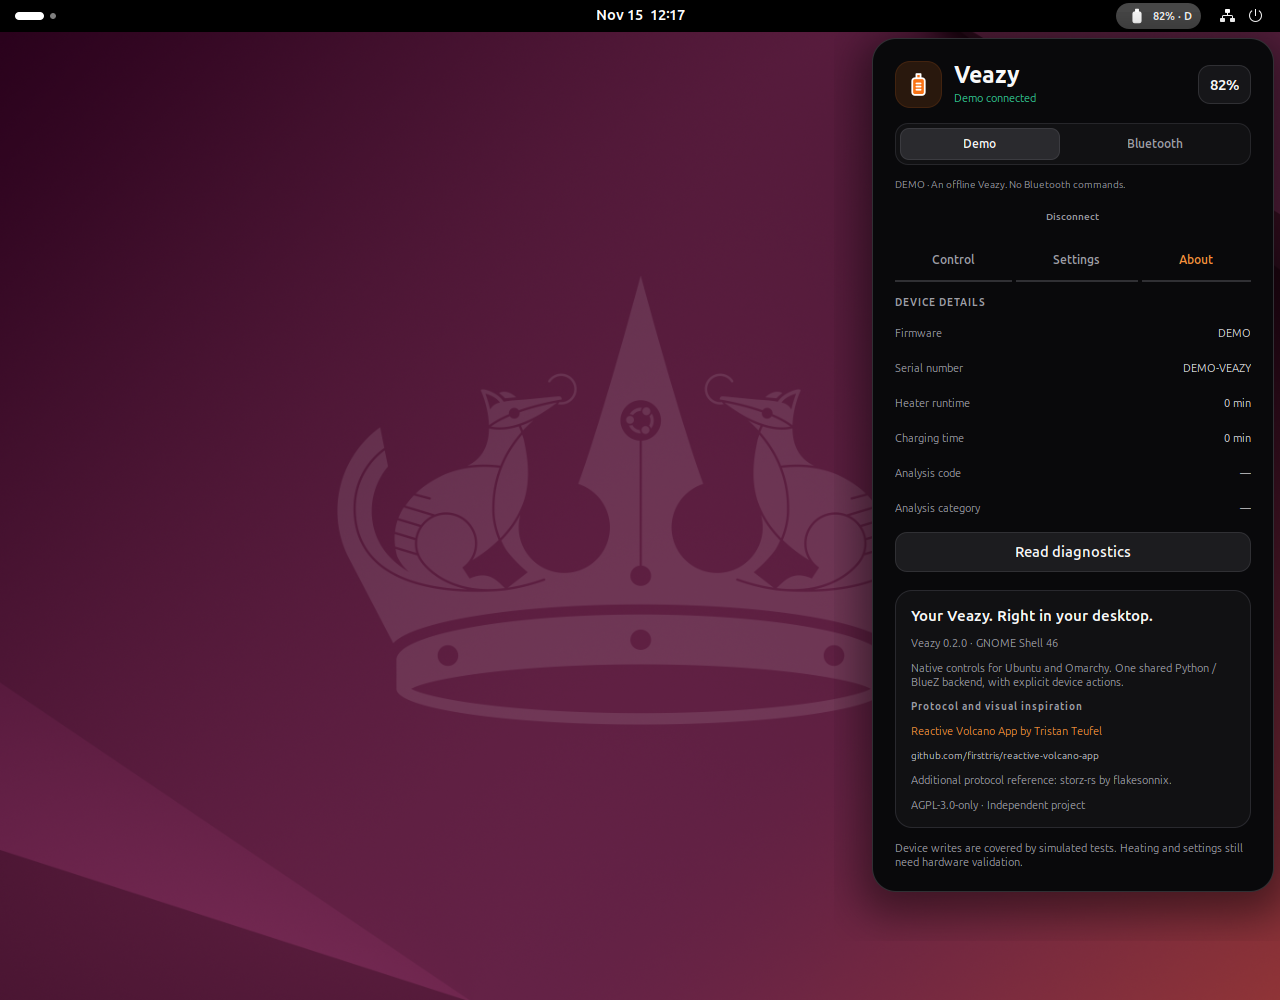
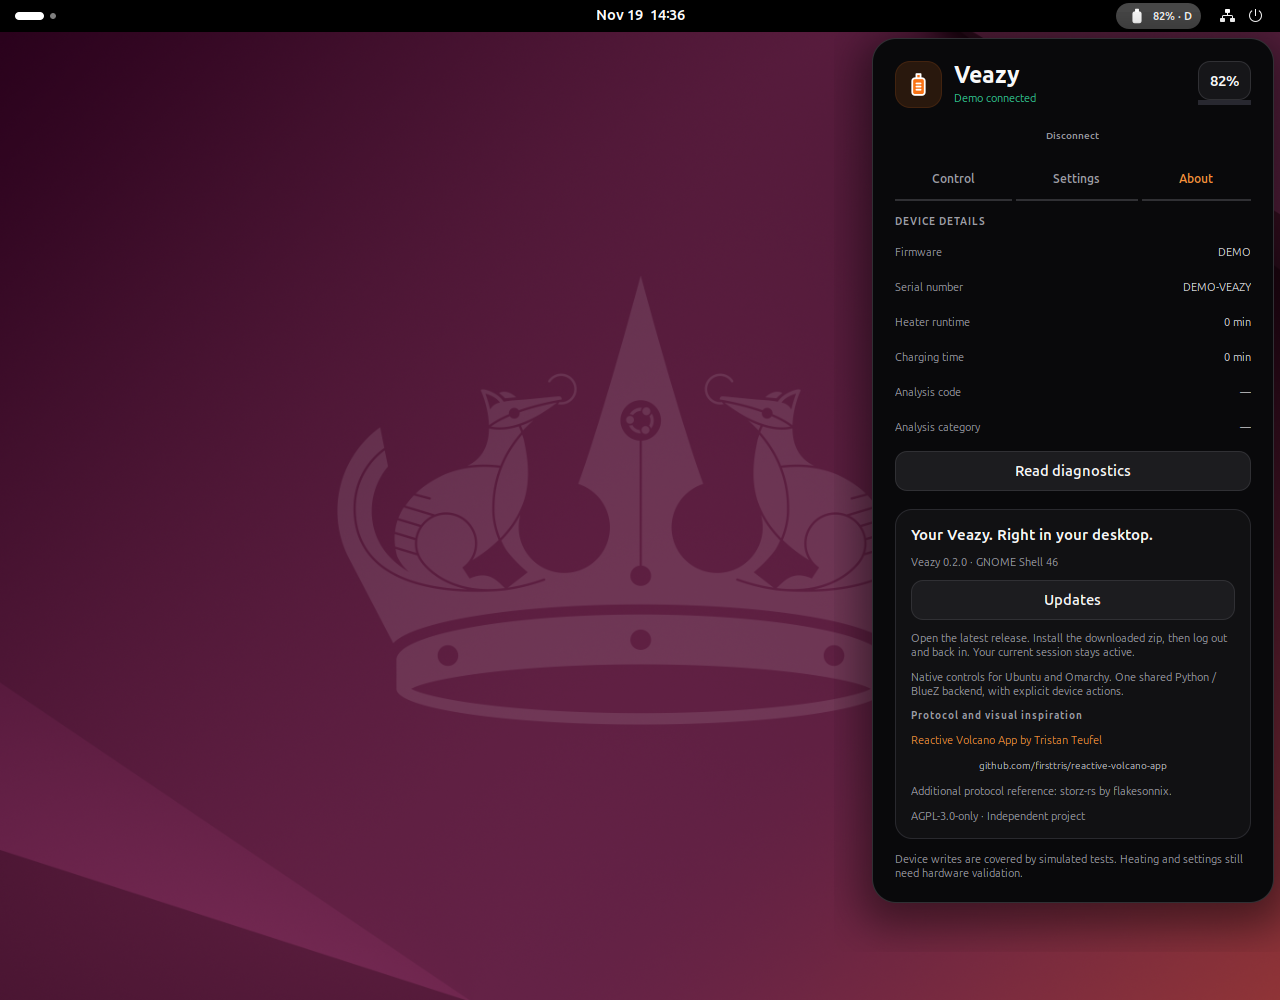
Release preview 0.3.0 with current GNOME screenshots

diff --git a/platforms/gnome/i18n.js b/platforms/gnome/i18n.js
@@ -26,7 +26,7 @@ const en = {
     details: 'DEVICE DETAILS', firmware_version: 'Firmware', serial_number: 'Serial number',
     heater_runtime_minutes: 'Heater runtime', charging_time_minutes: 'Charging time', analysis_code: 'Analysis code',
     analysis_category: 'Analysis category', diagnose: 'Read diagnostics', minutes: 'min',
-    native: 'Your Veazy. Right in your desktop.', version: 'Veazy 0.2.0 · GNOME Shell 46',
+    native: 'Your Veazy. Right in your desktop.', version: 'Veazy 0.3.0 · GNOME Shell 46',
     aboutText: 'Native controls for Ubuntu and Omarchy. One shared Python / BlueZ backend, with explicit device actions.',
     credits: 'Protocol and visual inspiration', attribution: 'Reactive Volcano App by Tristan Teufel',
     reference: 'Additional protocol reference: storz-rs by flakesonnix.',
@@ -59,7 +59,7 @@ const nl = {
     details: 'APPARAATGEGEVENS', firmware_version: 'Firmware', serial_number: 'Serienummer',
     heater_runtime_minutes: 'Verwarmingsduur', charging_time_minutes: 'Laadtijd', analysis_code: 'Analysecode',
     analysis_category: 'Analysecategorie', diagnose: 'Diagnostiek uitlezen', minutes: 'min',
-    native: 'Je Veazy. Midden in je desktop.', version: 'Veazy 0.2.0 · GNOME Shell 46',
+    native: 'Je Veazy. Midden in je desktop.', version: 'Veazy 0.3.0 · GNOME Shell 46',
     aboutText: 'Native bediening voor Ubuntu en Omarchy. Eén gedeelde Python / BlueZ-backend, met bewuste apparaatacties.',
     credits: 'Protocol en visuele inspiratie', attribution: 'Reactive Volcano App by Tristan Teufel',
     reference: 'Aanvullende protocolreferentie: storz-rs van flakesonnix.',

diff --git a/README.md b/README.md
@@ -4,11 +4,11 @@
 
 Bedien je Storz & Bickel **Veazy** vanuit de bestaande bovenbalk. Een native paneel toont temperatuurinstellingen, verwarmingsmodi, batterij en apparaatinstellingen. Er draait geen browser of aparte desktopapp.
 
-**Preview 0.2.0** voegt een GNOME Shell-extensie voor **Ubuntu 24.04 LTS / GNOME 46** toe, geschikt voor **X11 en Wayland**. De bestaande Omarchy-plugin blijft beschikbaar. Beide gebruiken dezelfde Python/Bleak-backend en dezelfde protocolbeveiligingen. De GNOME-interface volgt de donkere vormgeving en oranje temperatuurboog van [Reactive Volcano App](https://github.com/firsttris/reactive-volcano-app).
+**Preview 0.3.0** verbetert statusanimaties en updates. Veazy biedt een GNOME Shell-extensie voor **Ubuntu 24.04 LTS / GNOME 46**, geschikt voor **X11 en Wayland**. De bestaande Omarchy-plugin blijft beschikbaar. Beide gebruiken dezelfde Python/Bleak-backend en dezelfde protocolbeveiligingen. De GNOME-interface volgt de donkere vormgeving en oranje temperatuurboog van [Reactive Volcano App](https://github.com/firsttris/reactive-volcano-app).
 
 > Verwarming, temperatuur-, boost- en instellingenwrites zijn met een gesimuleerd transport getest. Hun werking op een fysieke Veazy is nog niet bevestigd. Eerdere hardwarewaarnemingen betreffen passieve telemetrie; zie [hardwaretests](docs/HARDWARE_TESTS.md).
 
-<p align="center"><img src="docs/images/gnome-control.png" alt="De native GNOME-extensie op Ubuntu met een offline demo-Veazy" width="800"><br><sub>GNOME Shell 46 op Ubuntu · offline demo, geen hardwaremeting.</sub></p>
+<p align="center"><img src="docs/images/gnome-control.png" alt="De native GNOME-extensie op Ubuntu met een offline demo-Veazy" width="800"><br><sub>GNOME Shell 46 op Ubuntu · offline demo met opwarm- en laadstatus, geen hardwaremeting.</sub></p>
 
 ## Ubuntu 24.04 LTS installeren
 

diff --git a/docs/RELEASE_NOTES.md b/docs/RELEASE_NOTES.md
@@ -1,3 +1,17 @@
+# v0.3.0 — GNOME-statusanimaties en eenvoudiger bijwerken
+
+Preview · 19 november 2026
+
+- Demo/Bluetooth staat onder Instellingen → Verbindingsmodus.
+- Bevestigd opwarmen krijgt een pulserende gloed; boost en superboost eigen kleuren en een buitenaccent. Een bewegende laadindicator toont bevestigd laden.
+- Animaties volgen de GNOME-voorkeur en stoppen bij gesloten paneel, veroudering of uitschakelen.
+- `python3 scripts/gnome-extension update [zip]` werkt expliciet bij met backup. Meld daarna af en opnieuw aan.
+- README-screenshots bijgewerkt naar de huidige native interface; de afbeeldingen tonen uitsluitend offline demo.
+
+De BLE-opdrachten en conservatieve effectieve-doelgrens van 210 °C veranderen niet. Heater-/instellingswrites zijn nog niet hardwaregevalideerd. Passieve telemetrie op Ubuntu is wel waargenomen; zie [HARDWARE_TESTS.md](HARDWARE_TESTS.md).
+
+---
+
 # v0.2.0 — Native GNOME en Omarchy
 
 Preview · 15 november 2026

diff --git a/docs/PROJECT.md b/docs/PROJECT.md
@@ -2,6 +2,8 @@
 
 ## GNOME-animatie en updates — 19 november 2026
 
+Deze wijzigingen worden uitgebracht als **preview 0.3.0**; de README krijgt actuele demoscreenshots. GNOME gebruikt pakketversie 3 en versienaam 0.3.0.
+
 De demokeuze staat voortaan onder Instellingen → Verbindingsmodus; de
 hoofdbediening bevat geen grote Demo/Bluetooth-keuzebalk. Actieve demo blijft
 herkenbaar aan status, demodiscovery en de D in de balk. De veilige
